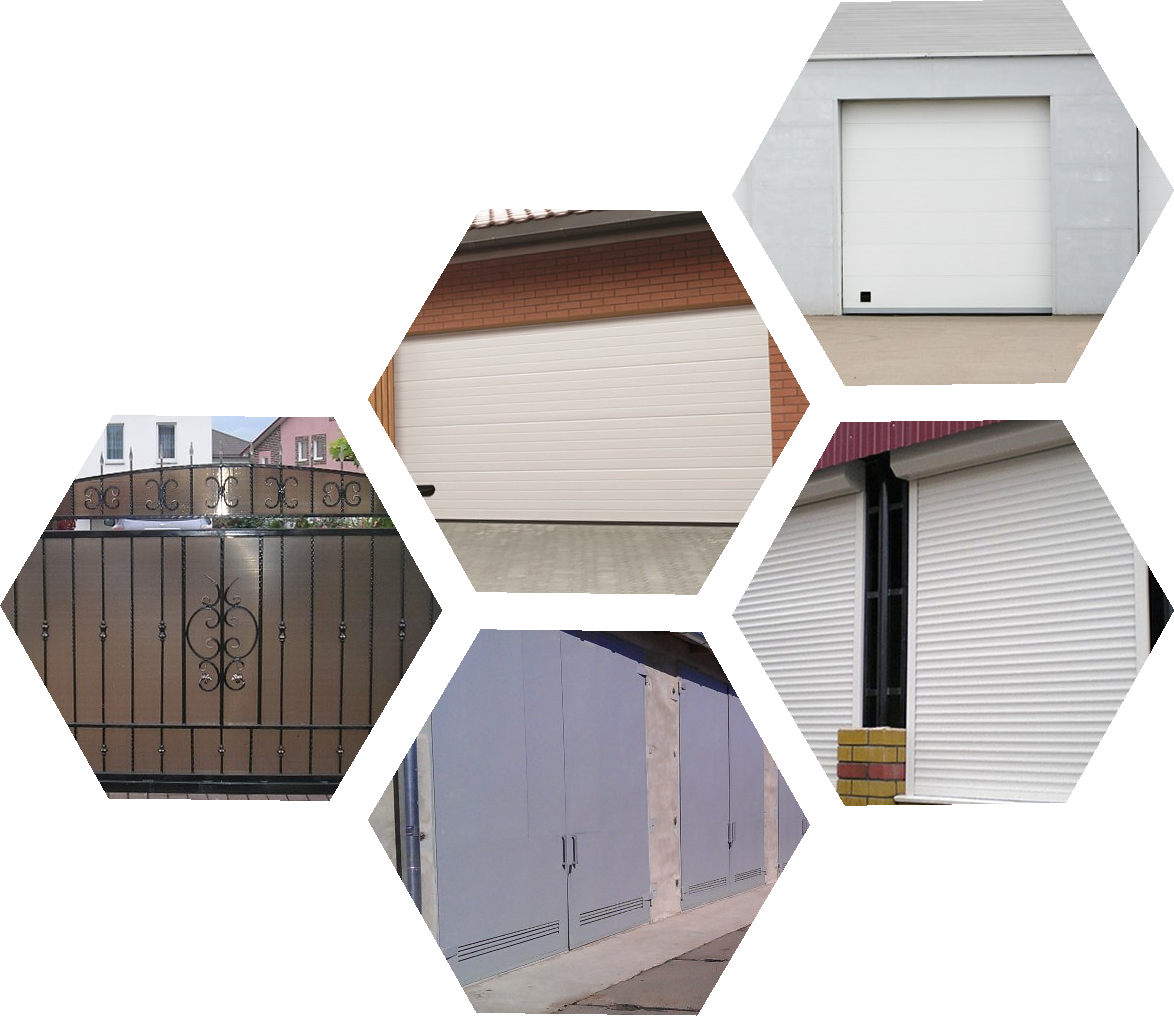
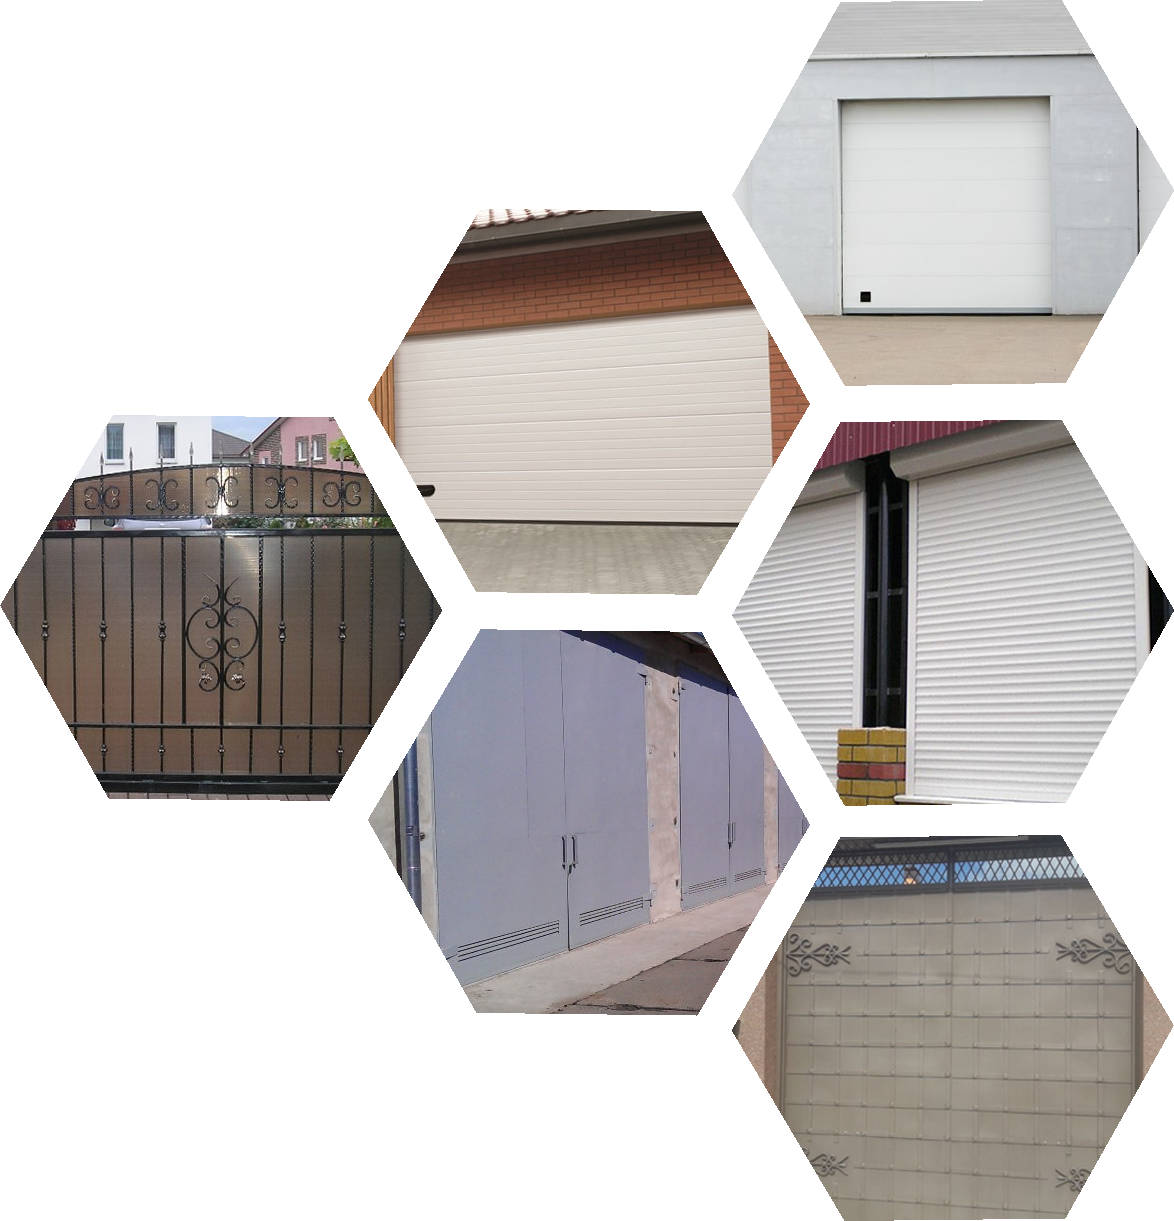
feat: change photo, fix css

diff --git a/index.html b/index.html
@@ -38,11 +38,11 @@
                 <div class="welcome__img"></div>
                 <div class="welcome__info">
                     <p class="welcome__title">Нужны <span class="welcome__title__span">ворота</span>? Тогда вы по адресу!</p>
-                    <div class="welcome__text">Уже <span class="welcome__title__span">100 лет</span> мы занимаемся изготовлением и установкой ворот с автоматикой и без. Нестандартные проемы, сложный монтаж - нас ничем не удивишь, мы справимся с любой задачей в три этапа:
+                    <div class="welcome__text">Уже <span class="welcome__title__span">20 лет</span> мы занимаемся изготовлением и установкой ворот с автоматикой и без. Нестандартные проемы, сложный монтаж - нас ничем не удивишь, мы справимся с любой задачей в три этапа:
                         <ol class="welcome__text__list">
-                            <li>замер (выезд бесплатно в пределах???)</li>
-                            <li>изготовление ворот (сроки до ???)</li>
-                            <li>установка</li>
+                            <li>бесплатный замер,</li>
+                            <li>изготовление ворот (от 5 дней),</li>
+                            <li>установка.</li>
                         </ol>          
                         <span class="welcome__title__span">Более 1000 довольных клиентов</span> пользуются нашими воротами и роллетами. Присоединяйтесь к ним и вы!</div>
                     </div>
@@ -62,7 +62,7 @@
                             </button>
                             <div class="gates__variants__info gates__variants__sec-gates__info gates__variants__info_active">
                                 <div class="gates__variants__item__info__line"></div>
-                                <div class="gates__variants__item__info__text">Оптимальный выбор для гаража. Секционные ворота открываются вертикально и в открытом положении находятся под потолком, экономя полезное пространство. Весомый плюс - сохранение тепла за счет отличной изоляции помещения от внешней среды. Такие ворота прослужат вам очень долго, т.к. они устойчивы к коррозии. Установить их можно в любые проемы: квадратные или скошенные, с сегментной или полукруглой аркой.</div>                                
+                                <div class="gates__variants__item__info__text">Оптимальный выбор для гаража. Секционные ворота открываются вертикально и в открытом положении находятся под потолком, экономя полезное пространство. Весомый плюс - сохранение тепла за счет отличной изоляции помещения от внешней среды. Такие ворота прослужат вам очень долго, т.к. они устойчивы к коррозии.</div>                                
                             </div>
                         </div>                    
                         <div class="gates__variants__swing-gates__wrapper">

diff --git a/style.css b/style.css
@@ -153,12 +153,18 @@ html {
 }
 .welcome__text__list {
   margin: 0;
+  list-style-type: none;
+  counter-reset: item;
+}
+.welcome__text__list li::before {
+  content: counter(item) ") ";
+  counter-increment: item;
 }
 .welcome__img {
   width: 450px;
-  height: 390px;
+  height: 463px;
   background-image: url("assets/welcome_img.png");
-  background-size: 450px 390px;
+  background-size: 450px 463px;
 }
 
 .gates {
@@ -536,10 +542,13 @@ html {
   .container {
     width: 1100px;
   }
+  .welcome__wrapper {
+    gap: 100px;
+  }
   .welcome__img {
-    width: 330px;
-    height: 284px;
-    background-size: 330px 284px;
+    width: 400px;
+    height: 416px;
+    background-size: 400px 416px;
   }
 }
 
@@ -836,7 +845,8 @@ html {
     width: 260px;
   }
   .repair__info,
-  .repair__text {
+  .repair__text,
+  .repair__title {
     width: 540px;
   }
 }
